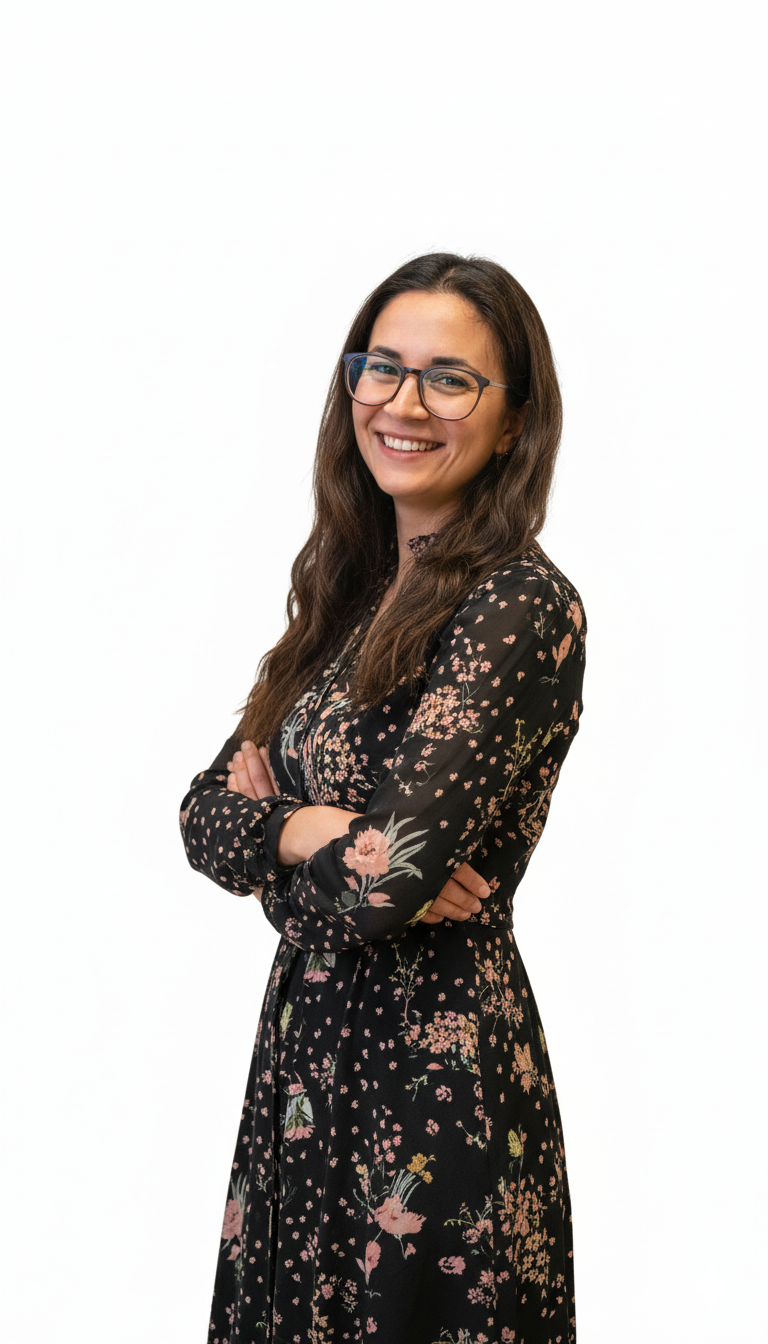
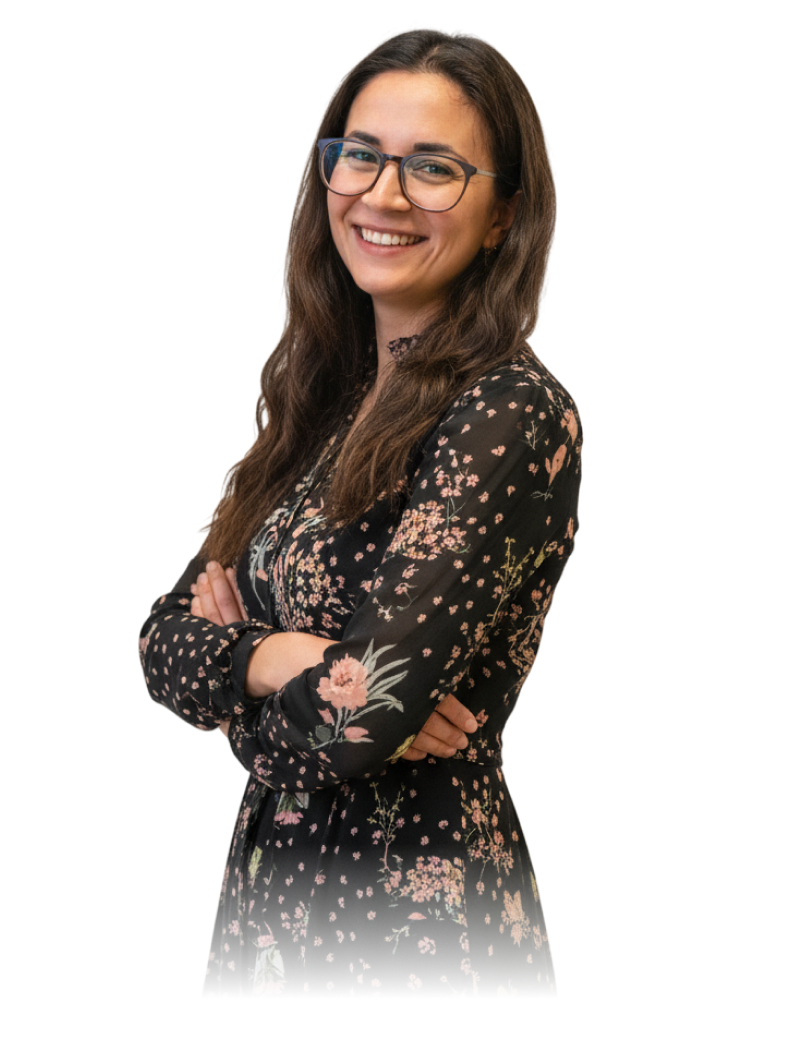
M10: Testimonial-Slider Arrows/Dots, CTA-Bild transparent, Höhe angepasst
- Testimonial-Slider: Pfeil-Navigation + Dot-Indikatoren statt Progress-Animation
- CTA-Bild durch transparente Version ersetzt (Figma-Export)
- Testimonial min-height erhöht (320/420/480px für Mobile/Tablet/Desktop)

diff --git a/pages/therapeuten/scripts.js b/pages/therapeuten/scripts.js
@@ -395,42 +395,42 @@
     if (!slider) return;
 
     var slides = slider.querySelectorAll('.testimonial__slide');
-    var bars = slider.querySelectorAll('.testimonial__progress-bar');
+    var dots = slider.querySelectorAll('.testimonial__dot');
+    var prevBtn = slider.querySelector('.testimonial__arrow--prev');
+    var nextBtn = slider.querySelector('.testimonial__arrow--next');
     if (slides.length < 2) return;
 
-    var interval = parseInt(slider.dataset.interval, 10) || 6000;
+    var interval = 4500;
     var current = 0;
     var timer = null;
 
-    if (window.matchMedia('(prefers-reduced-motion: reduce)').matches) return;
-
     function goTo(index) {
       slides[current].classList.remove('testimonial__slide--active');
-      bars[current].classList.remove('testimonial__progress-bar--active');
+      if (dots[current]) dots[current].classList.remove('testimonial__dot--active');
 
-      current = index % slides.length;
+      current = ((index % slides.length) + slides.length) % slides.length;
 
       slides[current].classList.add('testimonial__slide--active');
-      bars[current].classList.remove('testimonial__progress-bar--active');
-      void bars[current].offsetWidth;
-      bars[current].classList.add('testimonial__progress-bar--active');
+      if (dots[current]) dots[current].classList.add('testimonial__dot--active');
     }
 
-    function next() {
-      goTo(current + 1);
-    }
+    function next() { goTo(current + 1); }
+    function prev() { goTo(current - 1); }
 
-    // Click on progress bars
-    bars.forEach(function (bar, i) {
-      bar.addEventListener('click', function () {
+    // Arrow buttons
+    if (nextBtn) nextBtn.addEventListener('click', function () { clearInterval(timer); next(); timer = setInterval(next, interval); });
+    if (prevBtn) prevBtn.addEventListener('click', function () { clearInterval(timer); prev(); timer = setInterval(next, interval); });
+
+    // Click on dots
+    dots.forEach(function (dot, i) {
+      dot.addEventListener('click', function () {
         clearInterval(timer);
         goTo(i);
         timer = setInterval(next, interval);
       });
     });
 
-    // Start auto-play
-    bars[0].classList.add('testimonial__progress-bar--active');
+    // Auto-play
     timer = setInterval(next, interval);
 
     // Pause on hover

diff --git a/pages/therapeuten/styles.css b/pages/therapeuten/styles.css
@@ -85,17 +85,18 @@ body {
   display: block;
 }
 
-/* Content-driven height: quote col sets height, image adapts */
+/* Card layout */
 .testimonial__card {
   display: grid;
   grid-template-columns: 1fr;
   overflow: hidden;
+  min-height: 320px;
 }
 
 @media (min-width: 768px) {
   .testimonial__card {
     grid-template-columns: 1fr 1fr;
-    min-height: 0;
+    min-height: 420px;
   }
 
   .testimonial__quote-col {
@@ -118,45 +119,55 @@ body {
   }
 }
 
-/* Progress bars */
-.testimonial__progress {
+@media (min-width: 1101px) {
+  .testimonial__card {
+    min-height: 480px;
+  }
+}
+
+/* Navigation: arrows + dots */
+.testimonial__nav {
   display: flex;
-  gap: var(--space-2, 8px);
+  align-items: center;
   justify-content: center;
+  gap: var(--space-4, 16px);
   margin-top: var(--space-6, 24px);
 }
 
-.testimonial__progress-bar {
-  width: 48px;
-  height: 3px;
-  border-radius: 2px;
+.testimonial__arrow {
+  display: flex;
+  align-items: center;
+  justify-content: center;
+  width: 40px;
+  height: 40px;
+  border-radius: 50%;
+  border: 1px solid rgba(4, 108, 108, 0.2);
+  background: var(--color-white, #fff);
+  color: var(--color-teal, #046C6C);
+  cursor: pointer;
+  transition: background var(--transition-base, 0.2s), border-color var(--transition-base, 0.2s);
+}
+
+.testimonial__arrow:hover {
+  background: var(--color-teal, #046C6C);
+  color: var(--color-white, #fff);
+  border-color: var(--color-teal, #046C6C);
+}
+
+.testimonial__dots {
+  display: flex;
+  gap: var(--space-2, 8px);
+}
+
+.testimonial__dot {
+  width: 10px;
+  height: 10px;
+  border-radius: 50%;
   background: rgba(4, 108, 108, 0.15);
   cursor: pointer;
-  position: relative;
-  overflow: hidden;
+  transition: background var(--transition-base, 0.2s);
 }
 
-.testimonial__progress-bar--active {
-  background: rgba(4, 108, 108, 0.15);
-}
-
-.testimonial__progress-bar--active::after {
-  content: '';
-  position: absolute;
-  inset: 0;
+.testimonial__dot--active {
   background: var(--color-teal, #046C6C);
-  border-radius: 2px;
-  animation: testimonialProgress 6s linear forwards;
-}
-
-@keyframes testimonialProgress {
-  from { width: 0; }
-  to   { width: 100%; }
-}
-
-@media (prefers-reduced-motion: reduce) {
-  .testimonial__progress-bar--active::after {
-    animation: none;
-    width: 100%;
-  }
 }

diff --git a/pages/therapeuten/index.html b/pages/therapeuten/index.html
@@ -498,7 +498,7 @@
         <h2 id="testimonial-heading">Das sagen unsere<br>Mitarbeitenden</h2>
       </div>
 
-      <div class="testimonial__slider" data-interval="6000">
+      <div class="testimonial__slider" data-interval="4500">
         <!-- Testimonial 1: Pina -->
         <div class="testimonial__slide testimonial__slide--active">
           <div class="testimonial__card reveal">
@@ -541,9 +541,17 @@
           </div>
         </div>
 
-        <div class="testimonial__progress">
-          <span class="testimonial__progress-bar testimonial__progress-bar--active"></span>
-          <span class="testimonial__progress-bar"></span>
+        <div class="testimonial__nav">
+          <button class="testimonial__arrow testimonial__arrow--prev" aria-label="Vorheriges Testimonial">
+            <svg width="20" height="20" viewBox="0 0 24 24" fill="none" stroke="currentColor" stroke-width="2.5" stroke-linecap="round" stroke-linejoin="round"><path d="M19 12H5"/><path d="M12 19l-7-7 7-7"/></svg>
+          </button>
+          <div class="testimonial__dots">
+            <span class="testimonial__dot testimonial__dot--active"></span>
+            <span class="testimonial__dot"></span>
+          </div>
+          <button class="testimonial__arrow testimonial__arrow--next" aria-label="Nächstes Testimonial">
+            <svg width="20" height="20" viewBox="0 0 24 24" fill="none" stroke="currentColor" stroke-width="2.5" stroke-linecap="round" stroke-linejoin="round"><path d="M5 12h14"/><path d="M12 5l7 7-7 7"/></svg>
+          </button>
         </div>
       </div>
     </div>
